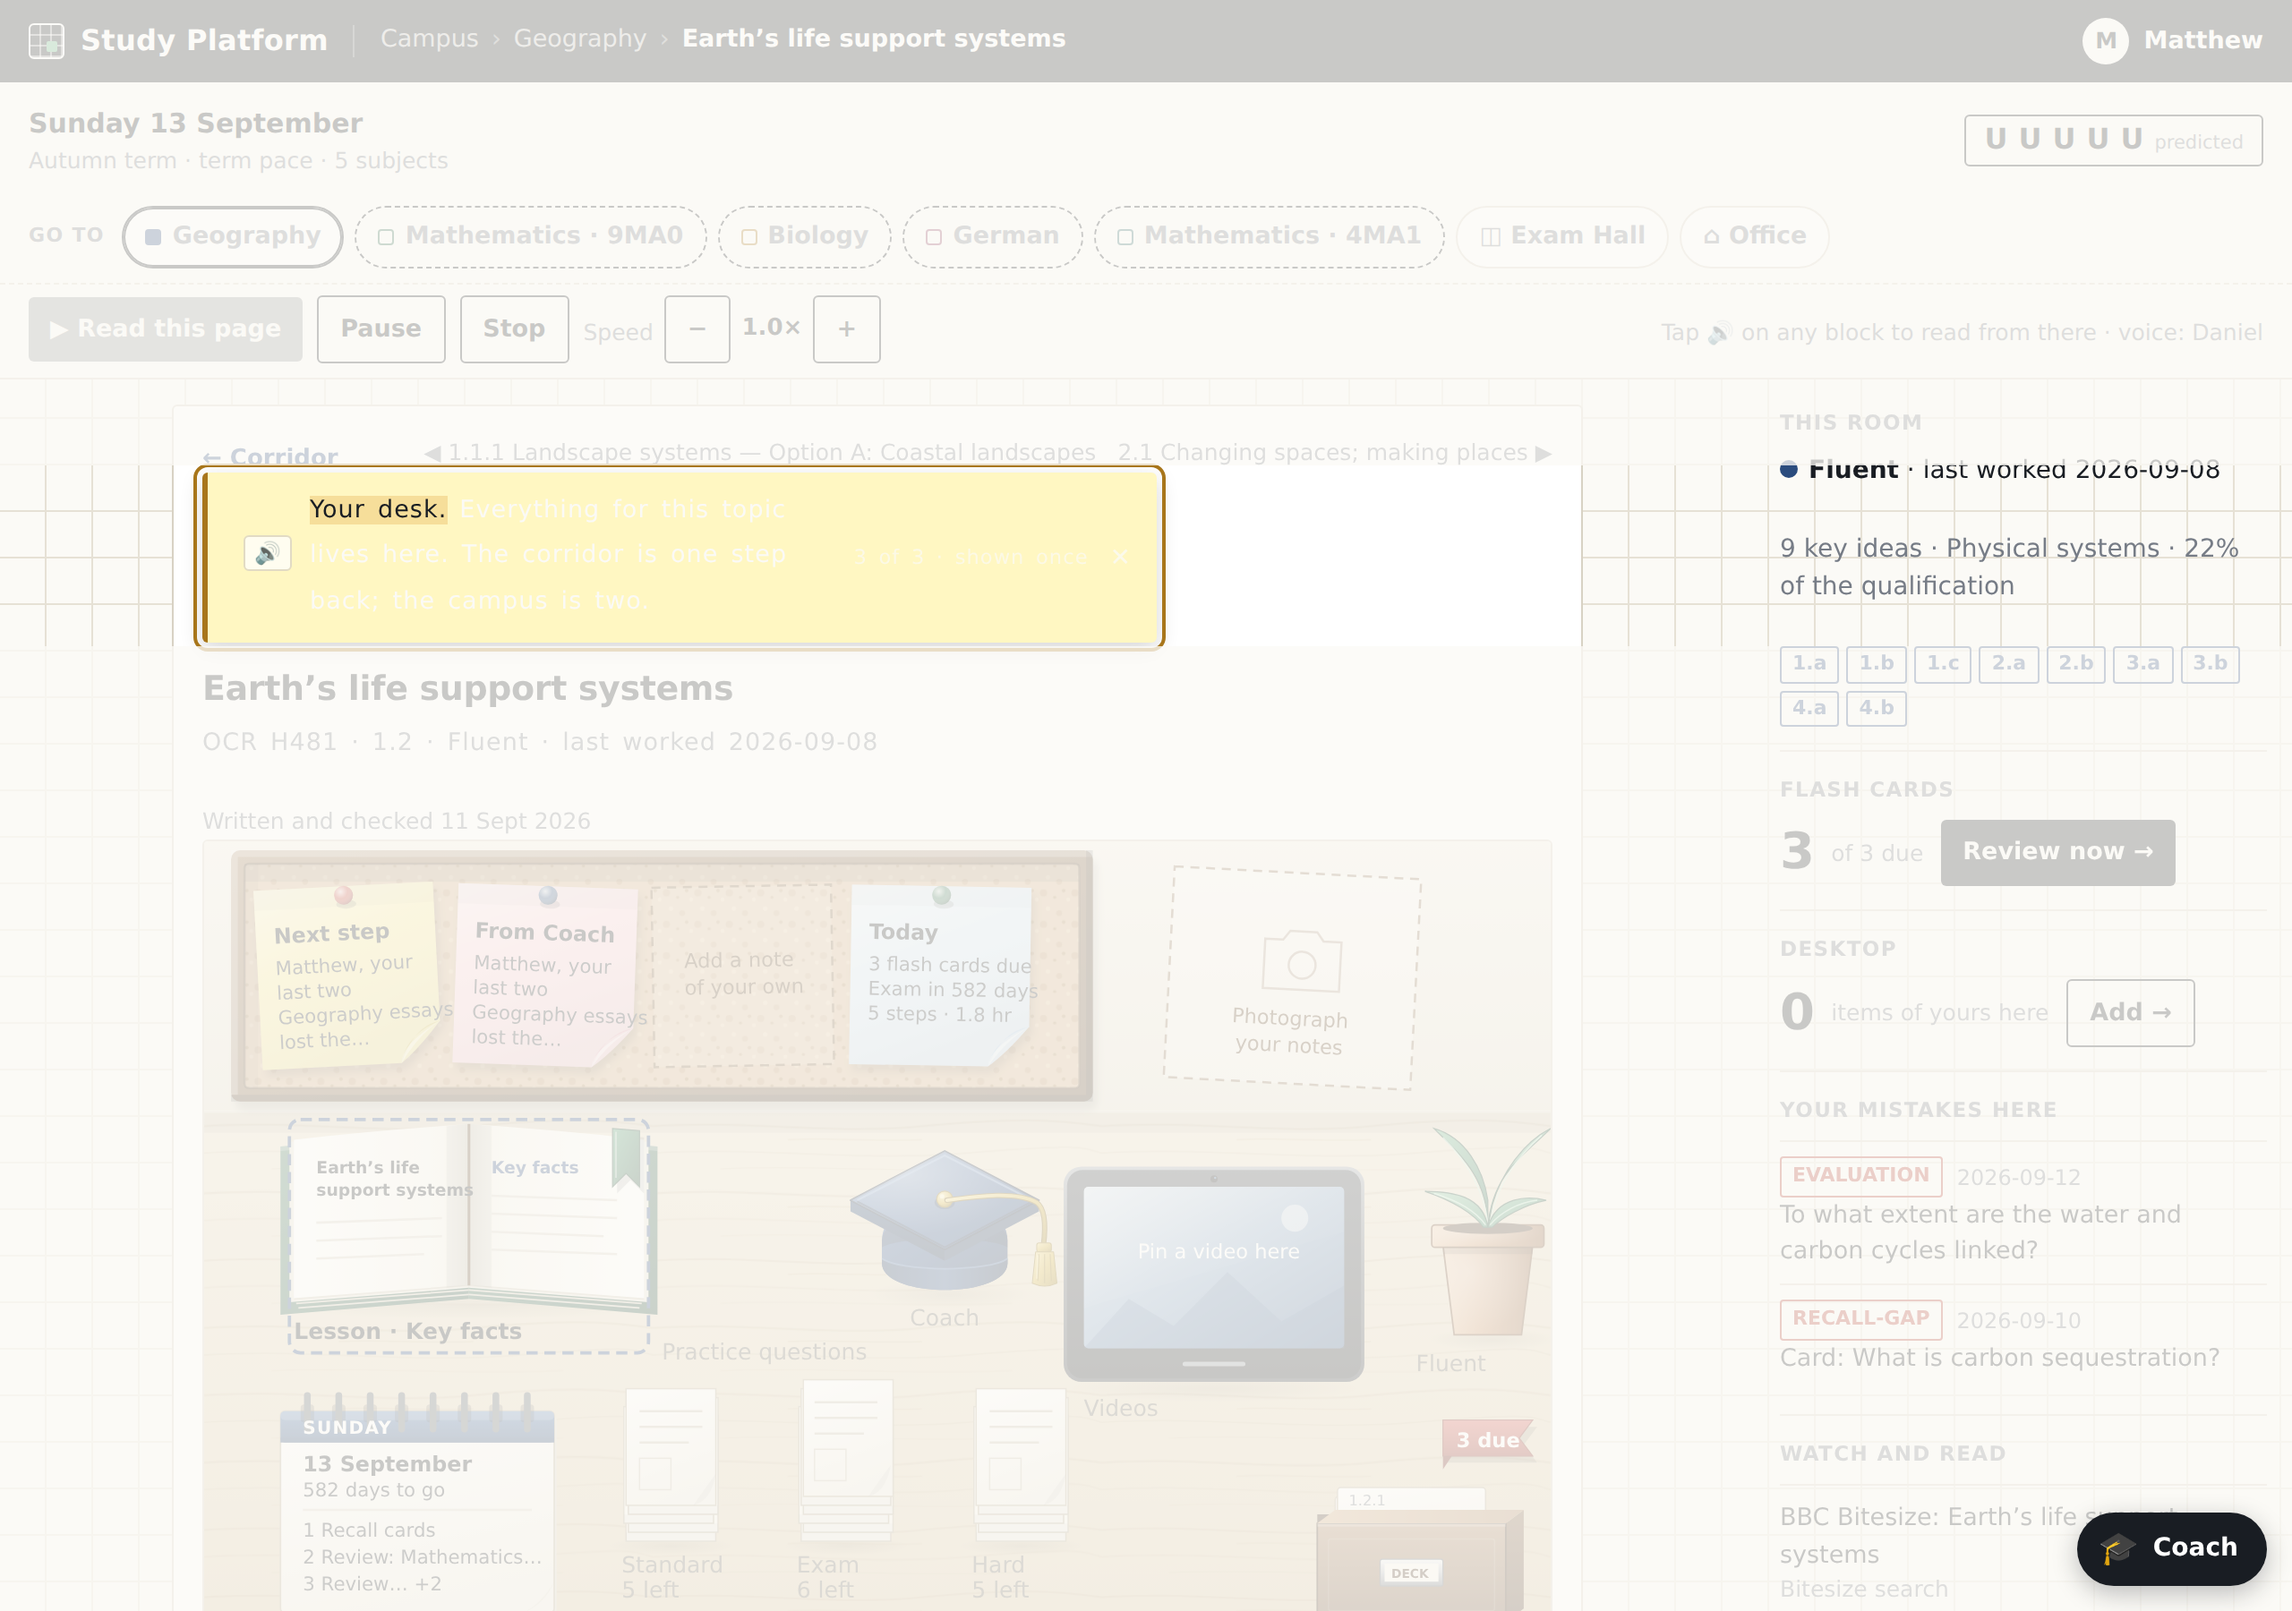
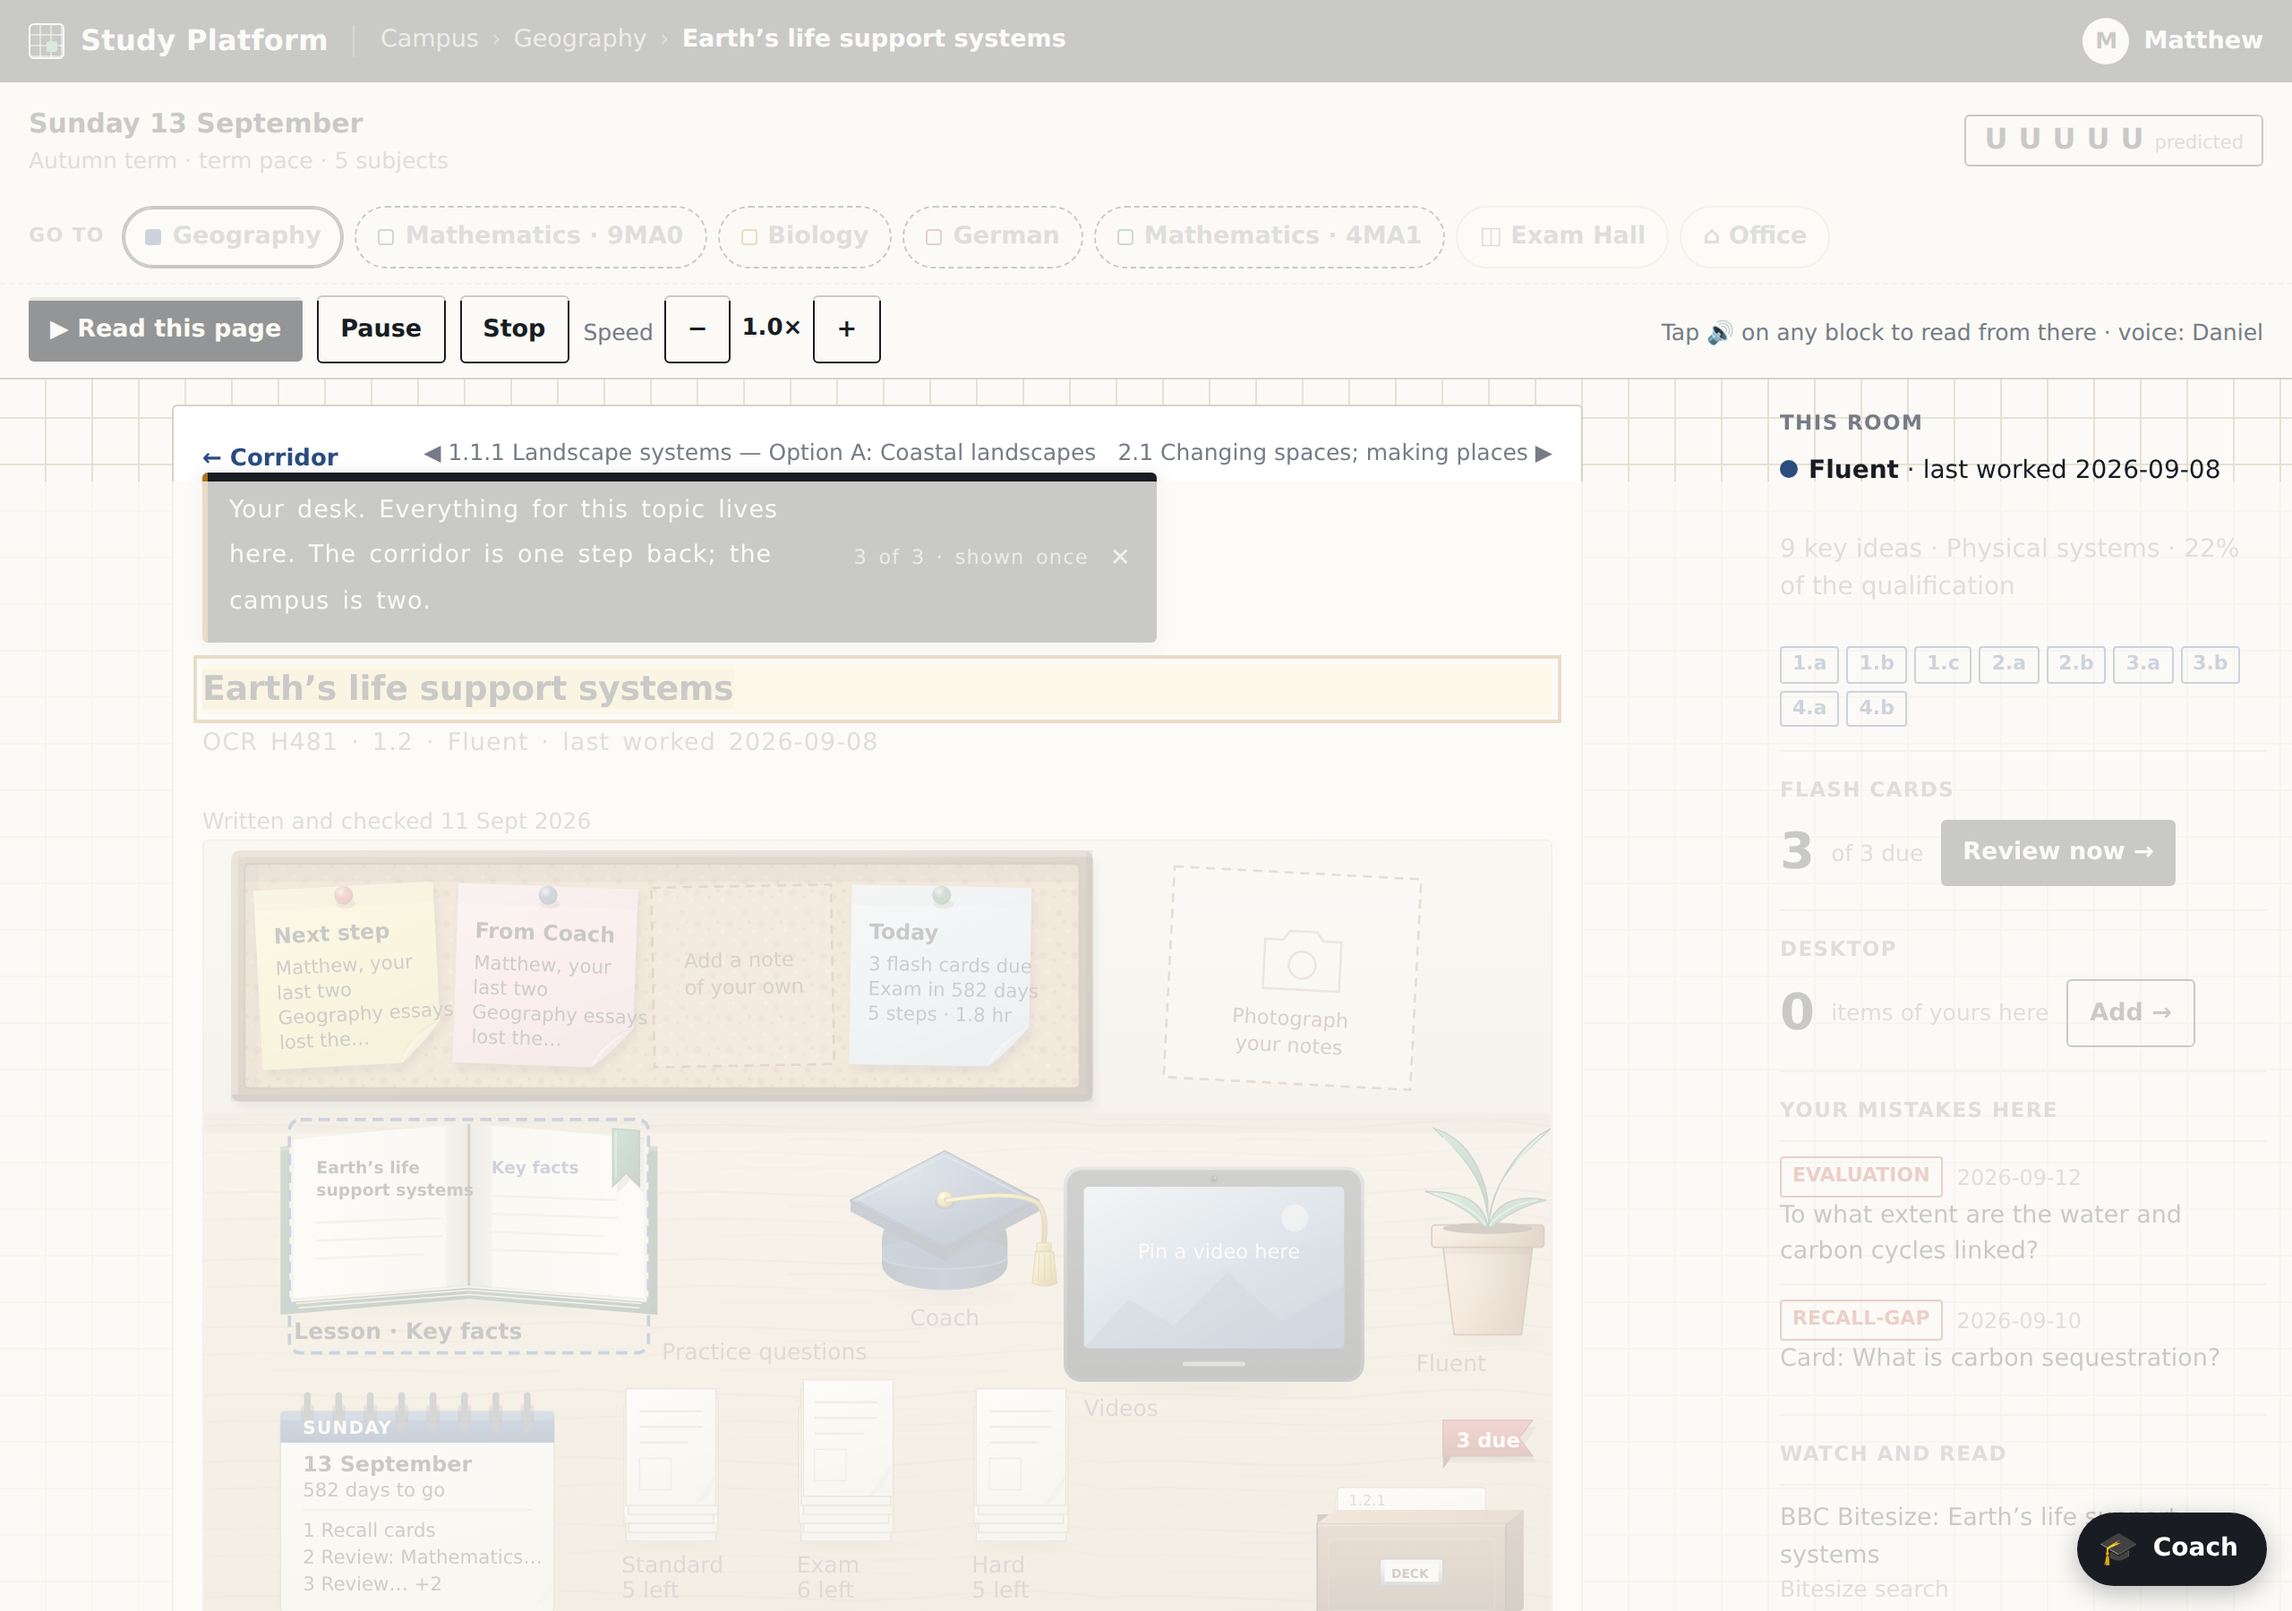
Reader: the onboarding hint is neither read nor given a speaker
Claude-Session: https://claude.ai/code/session_01Mh9bnPxQr2jGMgGjiwAVje

diff --git a/src/template.html b/src/template.html
@@ -199,7 +199,7 @@ function voiceGuidance(){const ua=String((typeof navigator!=='undefined'&&naviga
 function voiceOptions(){try{if(!speechOk())return [];const vs=(speechSynthesis.getVoices()||[]).filter(v=>v&&v.name);const rank=v=>/^en[-_]GB/i.test(v.lang||'')?0:/^en/i.test(v.lang||'')?1:2;return vs.slice().sort((a,b)=>rank(a)-rank(b)||String(a.name).localeCompare(String(b.name))).map(v=>({name:v.name,lang:v.lang||'',gb:rank(v)===0}));}catch(e){return [];}}
 function pickVoice(){try{if(!speechOk())return null;const vs=speechSynthesis.getVoices()||[];const want=sup().voice;if(want){const v=vs.find(x=>x.name===want);if(v)return v;}const gb=vs.filter(v=>/^en[-_]GB/i.test(v.lang||''));return gb.find(v=>/Google UK English|Daniel|Serena|Sonia|Ryan|Libby|Kate|Oliver|Arthur|Martha|Natural/i.test(v.name||''))||gb[0]||vs.find(v=>/^en/i.test(v.lang||''))||vs[0]||null;}catch(e){return null;}}
 function readerBlocks(){try{const out=[];const roots=[...document.querySelectorAll('main>section:not(.hide)'),document.getElementById('wall'),document.getElementById('coachPanel')].filter(Boolean);
-  for(const r of roots){if(!r.querySelectorAll)continue;for(const el of r.querySelectorAll(READ_SEL)){if(el.closest&&el.closest('svg,.desk,.campusart,.rdb,button,select,textarea,input,.hide,.reader,.chips'))continue;const t=blockText(el);if(t.length<3)continue;if(out.some(x=>x.contains&&x.contains(el)))continue;out.push(el);}}return out;}catch(e){return [];}}
+  for(const r of roots){if(!r.querySelectorAll)continue;for(const el of r.querySelectorAll(READ_SEL)){if(el.closest&&el.closest('svg,.desk,.campusart,.rdb,button,select,textarea,input,.hide,.reader,.chips,[data-hint],#status,nav'))continue;const t=blockText(el);if(t.length<3)continue;if(out.some(x=>x.contains&&x.contains(el)))continue;out.push(el);}}return out;}catch(e){return [];}}
 function blockText(el){return String(el.innerText||el.textContent||'').replace(/🔊/g,'').replace(/\s+/g,' ').trim();}
 /* a 🔊 only on body text in the centre: no headings, no sub-lines or captions, nothing on the wall, nothing shorter than a sentence */
 const DECORATE_SKIP='h1,h2,h3,h4,.sub,.fine,.prov,.cw,.entry,.formula,.nn,.stitle,.sdetail,.emeta,.nlabel,.bhead,.sign,.plate,label,summary';

diff --git a/scripts/visual-proof.js b/scripts/visual-proof.js
@@ -318,8 +318,9 @@ const server = http.createServer((req, res) => {
   await page.click('#coachClose');
   await page.evaluate(() => { S.setup.support.reader = true; S.setup.support.lineFocus = 3; S.setup.support.spacing = true; applySupport(); renderAll(); });
   await page.click('[data-station="lesson"]'); await page.waitForSelector('#reader #rdPage', { timeout: 5000 }); await page.waitForTimeout(250);
-  must((await page.locator('#v-rooms .rdb').count()) >= 3 && (await page.locator('#v-rooms h2 .rdb, #v-rooms h3 .rdb, #v-rooms .sub .rdb, #v-rooms .fine .rdb, #wall .rdb').count()) === 0, 'the lesson’s body paragraphs have a 🔊; titles, sub-lines, captions and the wall do not');
+  must((await page.locator('#v-rooms .rdb').count()) >= 3 && (await page.locator('#v-rooms h2 .rdb, #v-rooms h3 .rdb, #v-rooms .sub .rdb, #v-rooms .fine .rdb, #wall .rdb, [data-hint] .rdb').count()) === 0, 'the lesson’s body paragraphs have a 🔊; titles, sub-lines, captions and the wall do not');
   await page.click('#rdPage'); await page.waitForSelector('.rd-cur', { timeout: 5000 }); await page.waitForTimeout(200);
+  must((await page.locator('.rd-cur[data-hint]').count()) === 0, 'Read this page starts with the page, not the onboarding hint');
   must((await page.locator('#rdmask').isVisible()) && /Stop/.test(await page.locator('#reader').textContent()) && (await page.locator('body.rd-space').count()) === 1, 'reading: the current block is highlighted, the line-focus window is up, spacing is wider');
   await page.locator('.rd-cur').scrollIntoViewIfNeeded(); await page.waitForTimeout(150);
   await snap(page, '24-reader-line-focus', 'The reader: Read this page under the header, a 🔊 on each body paragraph, the block being read highlighted with its current sentence, a three-line focus window dimming the rest, and wider spacing');
